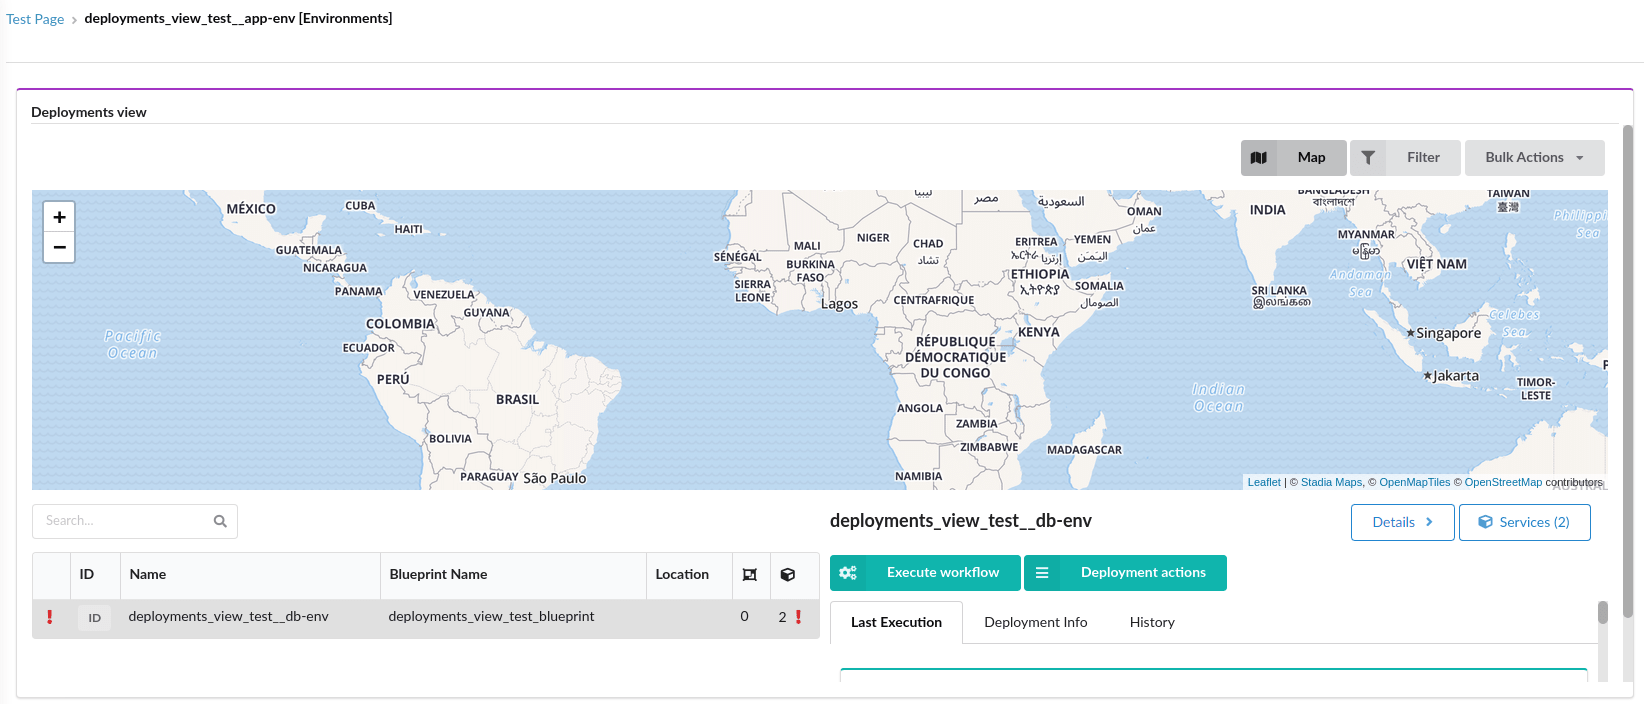
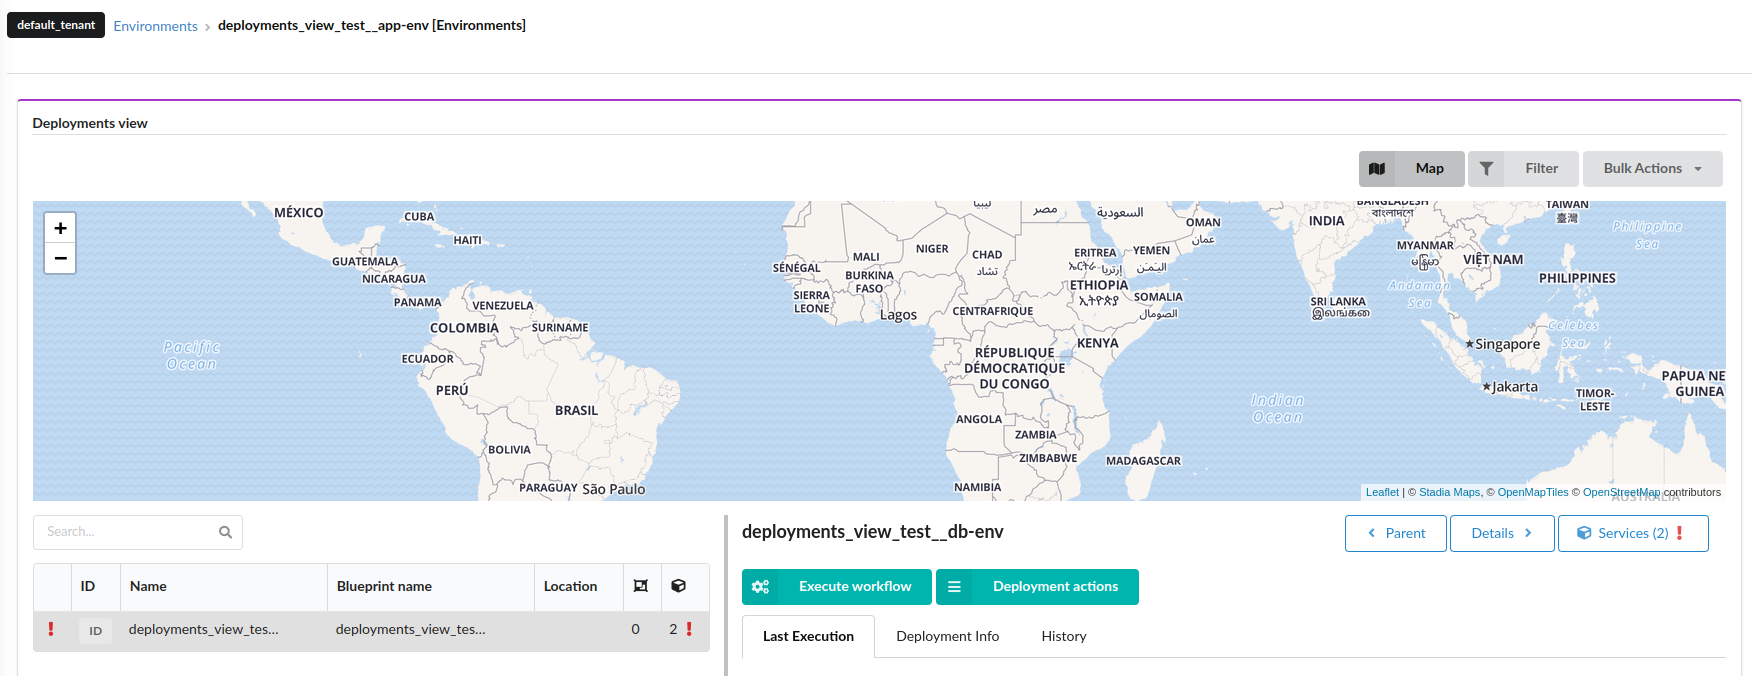
Update Deployments View widget description

diff --git a/content/working_with/console/widgets/deploymentsView.md b/content/working_with/console/widgets/deploymentsView.md
@@ -94,6 +94,10 @@ In the header of the right side are:
 
 - the currently selected deployment name
 - button to drill-down to deployment details
+- button to go back to the parent deployment
+
+    That button will only be visible on child environments or services pages.
+
 - buttons to drill-down to child environments or services
 
     Those buttons will not be visible when there are no child environments or services.
@@ -167,7 +171,8 @@ customized using the
 Drilling down can happen multiple times if there are more levels in the
 deployments hierarchy.
 
-To go back to the parent page, use the breadcrumbs in top part of the page.
+To go back to the parent page, use "Parent" button in the details pane header
+or the breadcrumbs in top part of the page.
 
 ![Drilled-down Deployments View](/images/ui/widgets/deployments-view-drilled-down.png)
 
